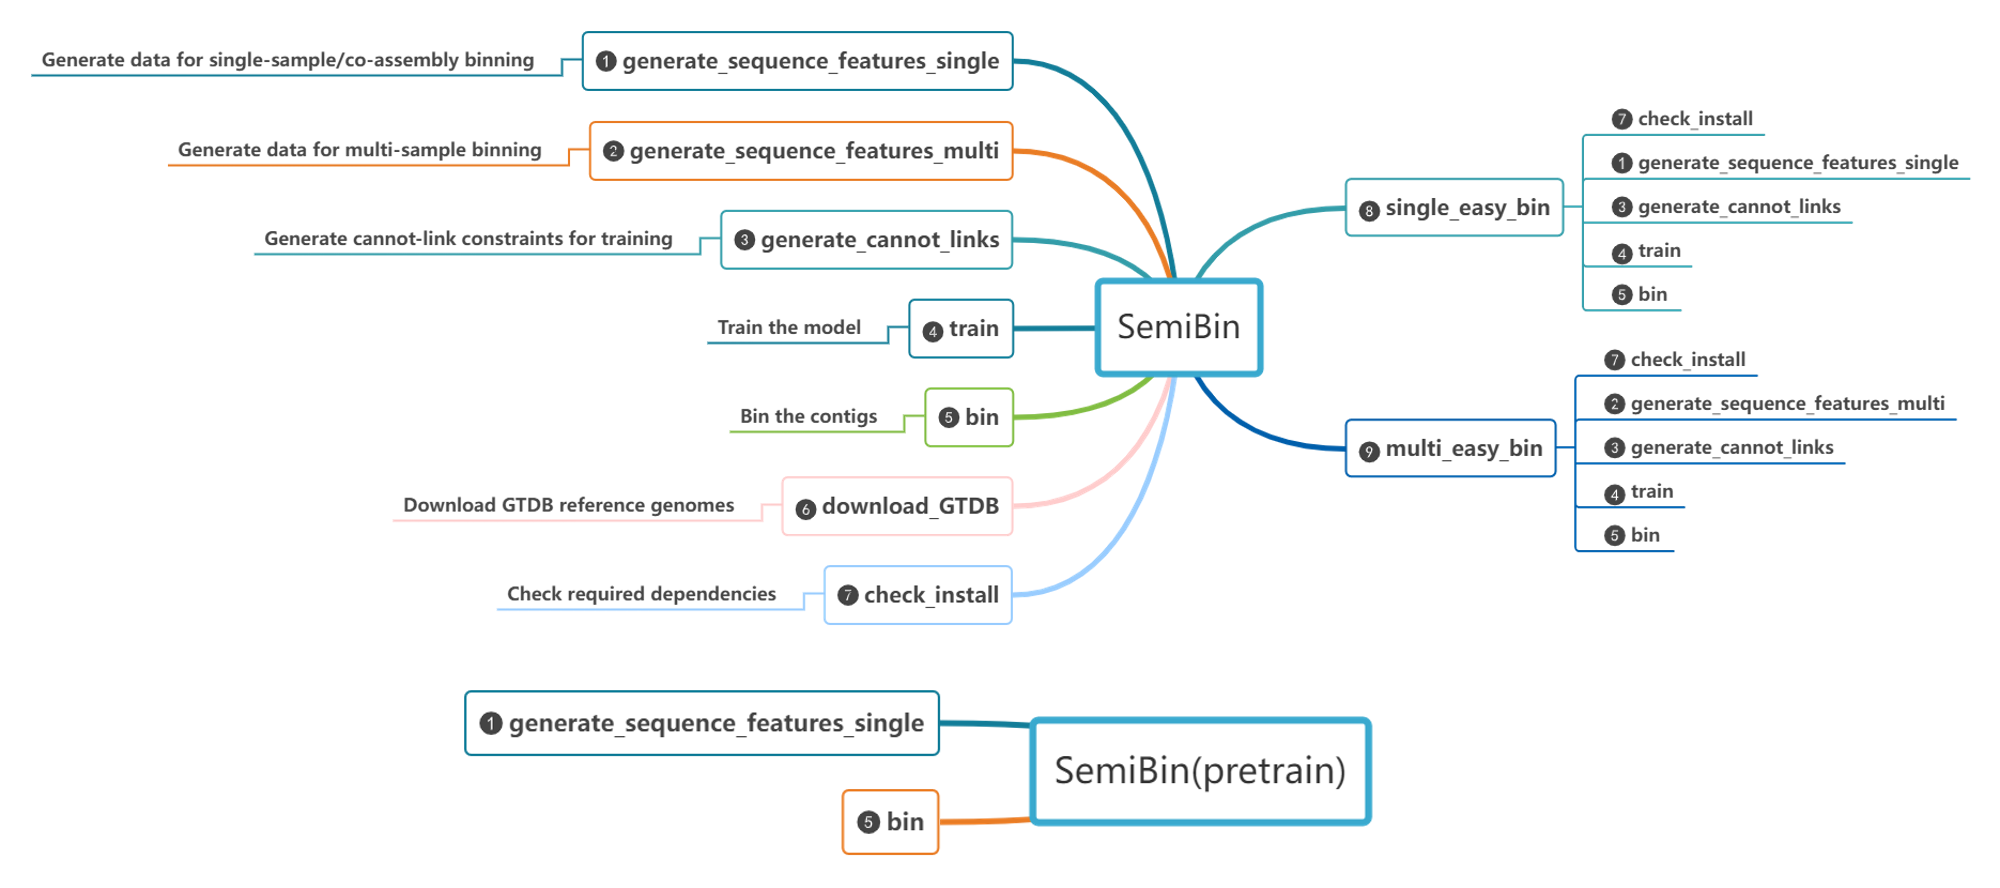
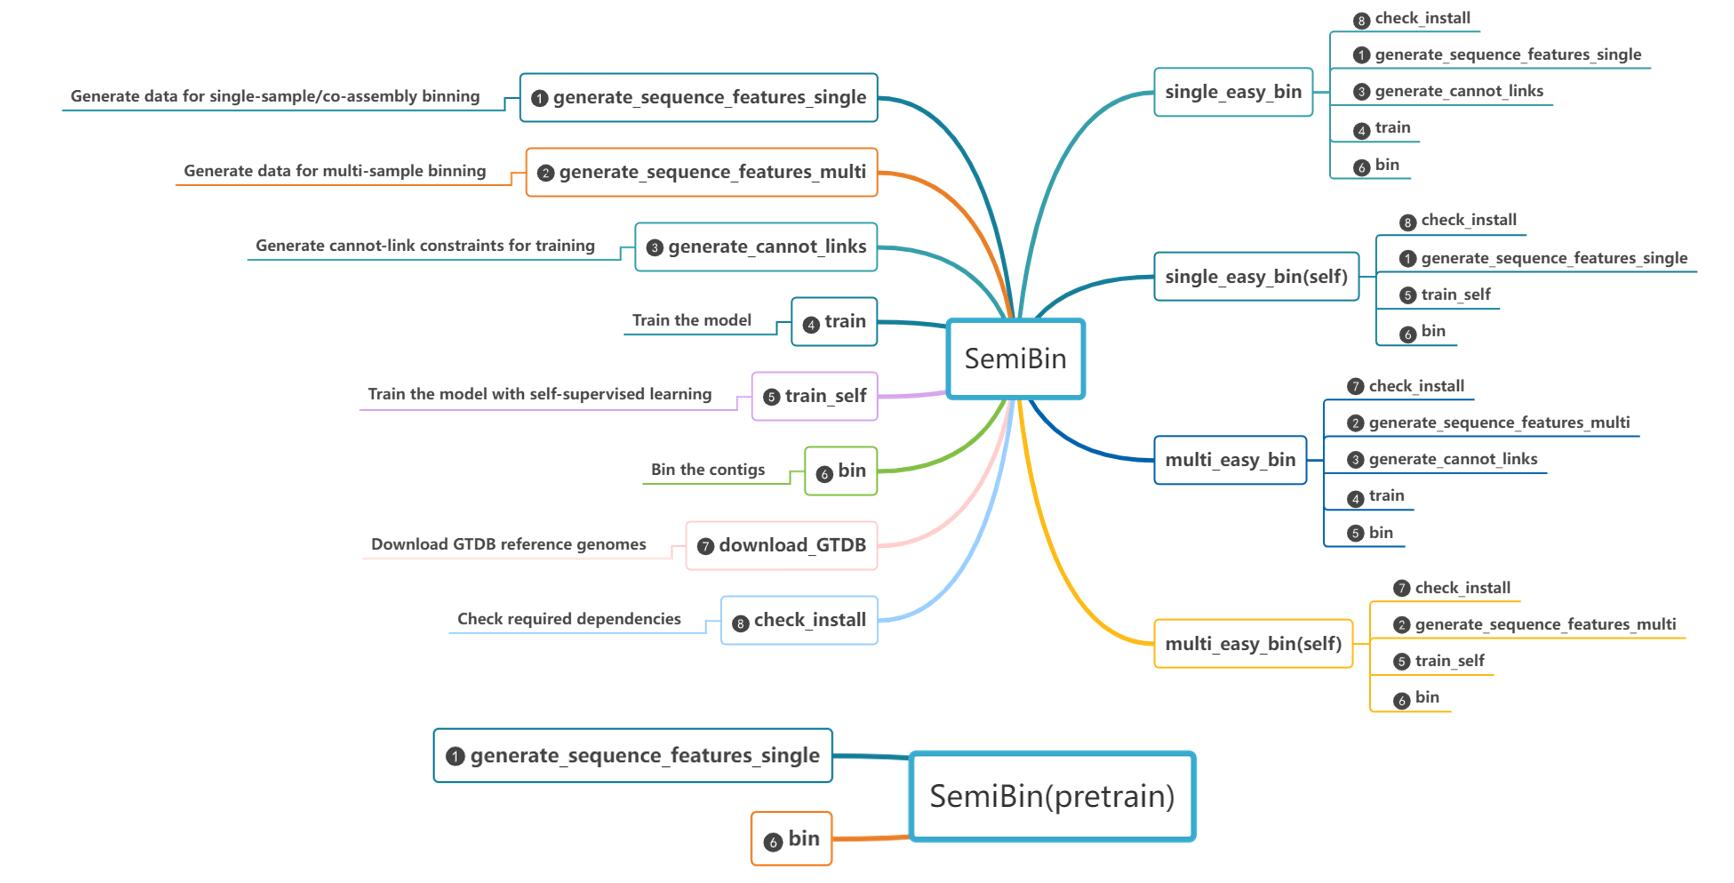
update docs of train_self

Changed region(s): [[0.0, 0.0, 0.9965, 0.8256], [0.218, 0.7644, 0.7163, 1.0]]

diff --git a/docs/subcommands.md b/docs/subcommands.md
@@ -19,6 +19,7 @@ Reconstruct bins with single or co-assembly binning using one command.
 * `-i/--input-fasta` : Path to the input contig fasta file (`gzip` and `bzip2` compression are accepted).
 * `-b/--input-bam`: Path to the input BAM (`.bam` extension)  or CRAM (`.cram`) files. You can pass multiple BAM files, one per sample.
 * `-o/--output`: Output directory (will be created if non-existent).
+* `--training-type`: Training algorithm used to train the model (semi/self)
 
 #### Recommended argument
 
@@ -58,7 +59,7 @@ If you find that changing these significantly improves the results of binning, w
 
 * `--minfasta-kbs`: minimum bin size in kilo-basepairs (Default: 200).
 * `--no-recluster` : Do not recluster bins. This saves a small amount of time, but pre-reclustering bins are always output.
-* `--epoches`: Number of epoches used in the training process (Default: 20).
+* `--epoches`: Number of epoches used in the training process (Default: 15).
 * `--batch-size`: Batch size used in the training process (Default: 2048).
 * `--max-node`: Percentage of contigs that considered to be binned (Default: 1).
 * `--max-edges`: The maximum number of edges that can be connected to one contig (Default: 200).
@@ -77,6 +78,7 @@ The command `multi_easy_bin` requires the combined contig file from several samp
 
 * `-b/--input-bam`: Path to the input BAM (`.bam`) or CRAM (`.cram`) files. You can pass multiple BAM files, one per sample.
 * `--input-fasta` and `--output`are same as for `single_easy_bin`.
+* `--training-type`: Training algorithm used to train the model (semi/self)
 
 #### Optional arguments
 
@@ -172,6 +174,27 @@ Note that you can train a model from multiple samples for use in single sample b
 * `--ratio`
 * `--min-len`
 * `--orf-finder`
+* `--engine`
+
+These have the same meaning as for `single_easy_bin`
+
+### train_self
+
+The `train_self` subcommand requires the contig file and outputs from the `generate_sequence_features_single`, `generate_sequence_features_multi`  subcommand as inputs (`data.csv`, `data_split.csv`) and outputs the trained model with a self-supervised way.
+
+#### Required arguments
+
+* `-o/--output` (same as for `single_easy_bin`)
+* `--data`: Path to the input `data.csv` file (typically generated by a previous call to `generate_sequence_features_single` or `generate_sequence_features_multi`).
+* `--data_split`: Path to the input `data_split.csv` file.
+* `--mode`: [single/several] Train models from one sample or several samples (train model across several samples can get better pre-trained model for single-sample binning). In several mode, must input data, data_split, cannot, fasta files for corresponding sample with same order. *Note:* You can only set `several` with this option when single-sample binning. Training from several samples with multi-sample binning is not supported.
+
+#### Optional arguments
+
+* `--epoches`
+* `--batch-size`
+* `-p/--processes/-t/--threads`
+* `--random-seed`
 * `--engine`
 
 These have the same meaning as for `single_easy_bin`
